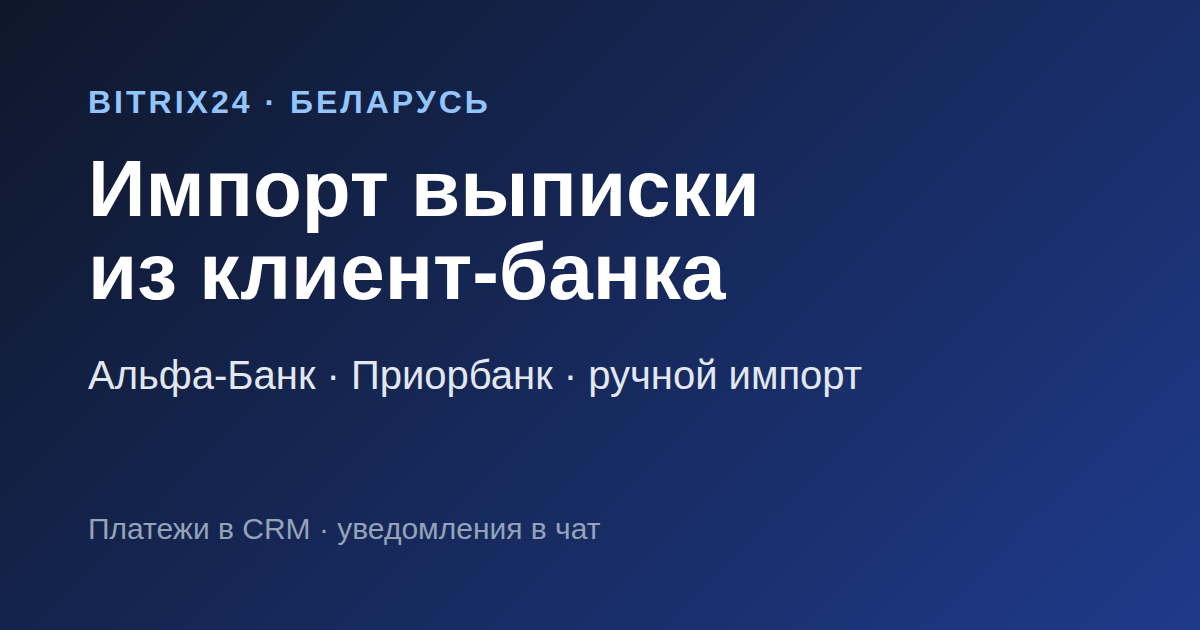
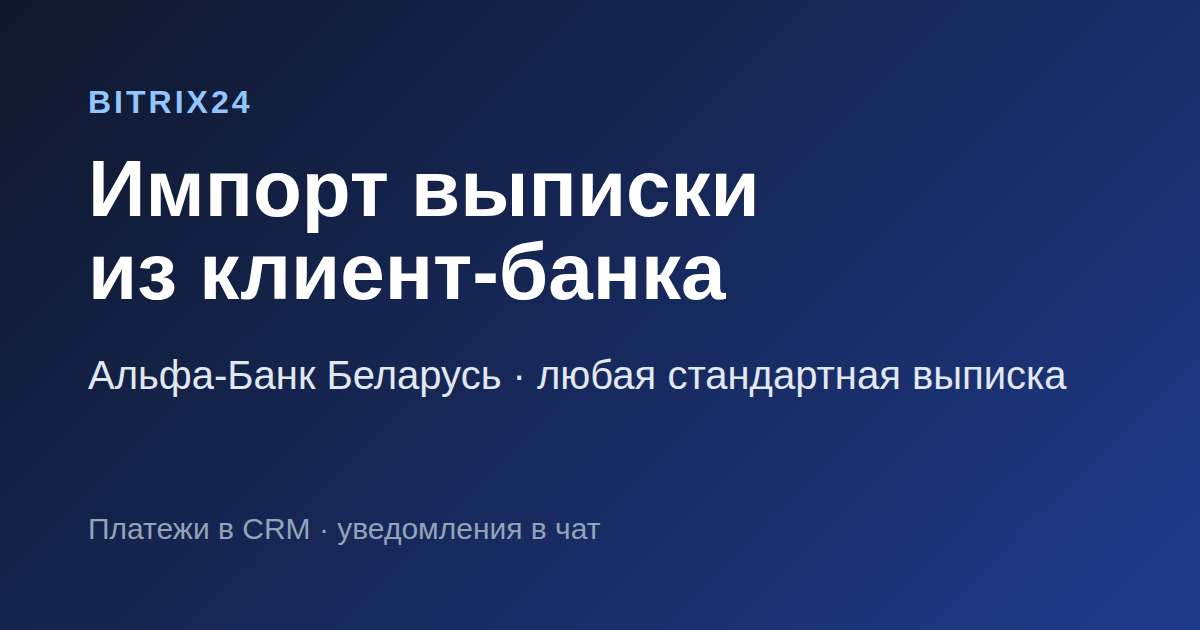
copy: позиционирование — Альфа-Банк Беларусь онлайн из любой страны + любая стандартная выписка
- Название приложения — без страны: «Импорт выписки из клиент-банка»
  (лендинг H1+SEO, /install title+H1, /app, /settings).
- Страна — у банка/источника: реестр банков — «Приорбанк Беларусь»
  (Альфа-Банк Беларусь уже был); «Ручная загрузка выписки» — без страны.
- Описание и первая карточка: забираем выписку из Альфа-Банка Беларусь онлайн —
  портал Bitrix24 в любой стране; нет онлайна — грузим любую стандартную выписку.
- OG-картинка перегенерирована под новый посыл (eyebrow «Bitrix24»,
  подпись «Альфа-Банк Беларусь · любая стандартная выписка»).

pnpm check — 282 зелёных; лендинг проверен скриншотом.

Claude-Session: https://claude.ai/code/session_0135A7JnqTgvqTN6hks2Q96Q

Changed region(s): [[0.2467, 0.573, 0.8942, 0.6333], [0.2158, 0.1206, 0.4008, 0.181]]

diff --git a/app/utils/landing.ts b/app/utils/landing.ts
@@ -1,8 +1,8 @@
 /** Single source of truth for the landing copy — used by both app.vue (SEO/head)
  * and index.vue (visible hero), so the title/description can't drift apart. */
-export const LANDING_TITLE = 'Импорт выписки из клиент-банка (Беларусь)'
+export const LANDING_TITLE = 'Импорт выписки из клиент-банка'
 export const LANDING_DESCRIPTION
-  = 'Выписка из клиент-банка в Bitrix24: Альфа-Банк, Приорбанк или ручной импорт.'
+  = 'Выписка из Альфа-Банка Беларусь в Bitrix24 онлайн — из любой страны. Или загрузите любую стандартную выписку вручную.'
 
 /** Year the project started — left edge of the footer copyright range. */
 export const START_YEAR = 2026
@@ -17,7 +17,7 @@ export interface LandingFeature {
 export const LANDING_FEATURES: readonly LandingFeature[] = [
   {
     title: 'Выписка без ручного экспорта',
-    description: 'Регулярно получаем выписку из Альфа-Банка или Приорбанка по защищённому доступу — без выгрузки файлов вручную. Нет онлайн-доступа — загружаем файл вручную.'
+    description: 'Забираем выписку из Альфа-Банка Беларусь по защищённому онлайн-доступу — портал Bitrix24 может быть в любой стране. Нет онлайна — загружаем любую стандартную выписку файлом.'
   },
   {
     title: 'Платежи прямо в CRM',

diff --git a/app/pages/install.vue b/app/pages/install.vue
@@ -10,7 +10,7 @@ const b24Instance = useB24()
 const isUseB24 = computed<boolean>(() => b24Instance.isInit())
 const requiredScopes = b24Instance.getRequiredRights()
 
-useHead({ title: 'Установка — Импорт выписки из клиент-банка (Беларусь)' })
+useHead({ title: 'Установка — Импорт выписки из клиент-банка' })
 
 const progressColor = ref<'air-primary' | 'air-primary-success' | 'air-primary-warning' | 'air-primary-alert'>('air-primary')
 const progressValue = ref<null | number>(null)
@@ -122,7 +122,7 @@ onMounted(runInstall)
   <div class="flex min-h-screen flex-col items-center justify-center gap-4 p-4">
     <div class="flex w-full max-w-2xl flex-col items-center gap-4">
       <h1 class="text-center text-2xl font-bold text-(--ui-color-base-1)">
-        Импорт выписки из клиент-банка (Беларусь)
+        Импорт выписки из клиент-банка
       </h1>
 
       <B24Progress

diff --git a/app/config/banks.ts b/app/config/banks.ts
@@ -44,7 +44,7 @@ export interface BankProvider {
 /** Registry of known providers. `implemented` gates UI without code branches. */
 export const BANK_PROVIDERS: readonly BankProviderMeta[] = [
   { id: 'alfa-by', title: 'Альфа-Банк Беларусь', auth: 'oauth', canPoll: true, implemented: false },
-  { id: 'prior-by', title: 'Приорбанк', auth: 'oauth', canPoll: true, implemented: false },
+  { id: 'prior-by', title: 'Приорбанк Беларусь', auth: 'oauth', canPoll: true, implemented: false },
   { id: 'manual', title: 'Ручная загрузка выписки', auth: 'manual', canPoll: false, implemented: false }
 ]
 

diff --git a/app/pages/app.vue b/app/pages/app.vue
@@ -13,7 +13,7 @@ import { useAppSettings } from '~/composables/useAppSettings'
 definePageMeta({ layout: 'clear' })
 
 // Document title for standalone; in the portal parent.setTitle sets the iframe chrome.
-useHead({ title: 'Выписка по счёту — Импорт выписки из клиент-банка (Беларусь)' })
+useHead({ title: 'Выписка по счёту — Импорт выписки из клиент-банка' })
 
 const statement = MOCK_STATEMENT
 const { credits, debits } = splitByDirection(statement.items)

diff --git a/app/pages/settings.vue b/app/pages/settings.vue
@@ -11,7 +11,7 @@ import { useB24 } from '~/composables/useB24'
 definePageMeta({ layout: 'clear' })
 
 // Document title for standalone; in the portal parent.setTitle sets the iframe chrome.
-useHead({ title: 'Настройки — Импорт выписки из клиент-банка (Беларусь)' })
+useHead({ title: 'Настройки — Импорт выписки из клиент-банка' })
 
 // Demo, client-side persistence. Wires the chat-notify filter (pure logic in
 // utils/statement.ts) with a live preview. Real key/chat storage moves